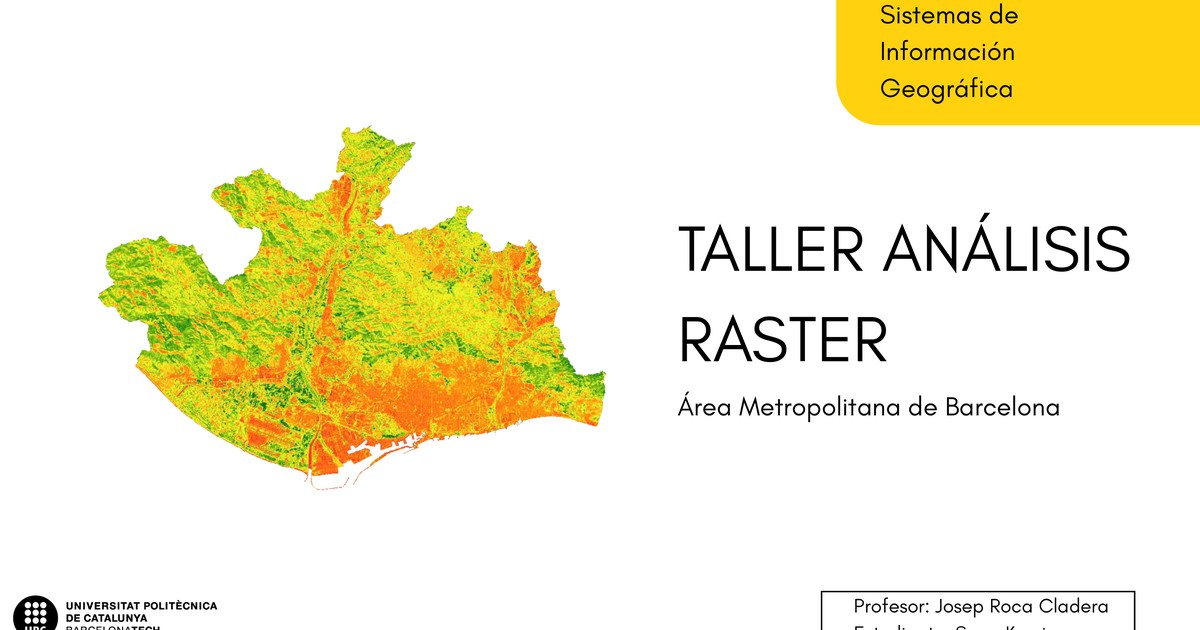
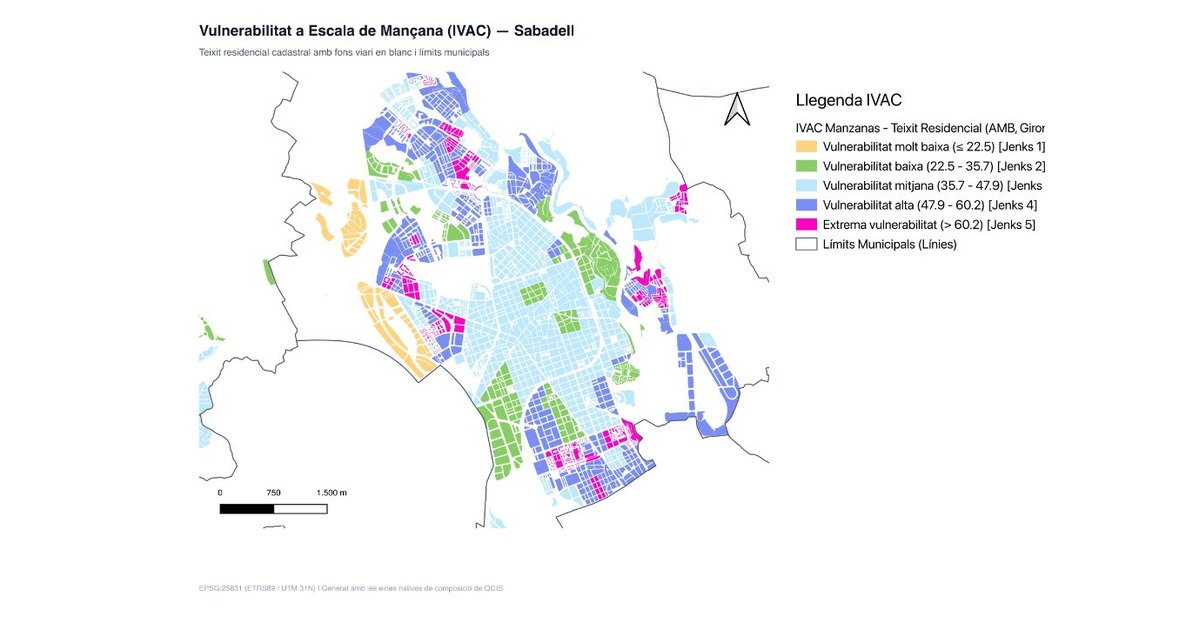
Update OGP thumbnail image to Sabadell IVAC vulnerability GIS map

diff --git a/index.html b/index.html
@@ -12,8 +12,8 @@
   <meta property="og:url" content="https://sanachavez79-k.github.io/portafolio/">
   <meta property="og:title" content="GIS & Urban Design Portfolio | Sana Kamiya">
   <meta property="og:description" content="Portafolio profesional de Sana Kamiya: Sistemas de Información Geográfica (GIS), planificación urbana, resiliencia climática y diseño territorial en el Área Metropolitana de Barcelona.">
-  <meta property="og:image" content="https://sanachavez79-k.github.io/portafolio/images/og-image.jpg">
-  <meta property="og:image:secure_url" content="https://sanachavez79-k.github.io/portafolio/images/og-image.jpg">
+  <meta property="og:image" content="https://sanachavez79-k.github.io/portafolio/images/og-image-sabadell.jpg">
+  <meta property="og:image:secure_url" content="https://sanachavez79-k.github.io/portafolio/images/og-image-sabadell.jpg">
   <meta property="og:image:type" content="image/jpeg">
   <meta property="og:image:width" content="1200">
   <meta property="og:image:height" content="630">
@@ -24,7 +24,7 @@
   <meta name="twitter:url" content="https://sanachavez79-k.github.io/portafolio/">
   <meta name="twitter:title" content="GIS & Urban Design Portfolio | Sana Kamiya">
   <meta name="twitter:description" content="Portafolio profesional de Sana Kamiya: Sistemas de Información Geográfica (GIS), planificación urbana, resiliencia climática y diseño territorial en el Área Metropolitana de Barcelona.">
-  <meta name="twitter:image" content="https://sanachavez79-k.github.io/portafolio/images/og-image.jpg">
+  <meta name="twitter:image" content="https://sanachavez79-k.github.io/portafolio/images/og-image-sabadell.jpg">
 
   <link rel="stylesheet" href="styles/style.css">
   <script src="js/lang.js" defer></script>

diff --git a/portfolio.html b/portfolio.html
@@ -12,8 +12,8 @@
   <meta property="og:url" content="https://sanachavez79-k.github.io/portafolio/portfolio.html">
   <meta property="og:title" content="Portafolio de Proyectos GIS & Diseño Urbano | Sana Kamiya">
   <meta property="og:description" content="Proyectos de análisis espacial GIS, teledetección, modelado microclimático 3D y diseño urbano desarrollados en Cataluña por Sana Kamiya.">
-  <meta property="og:image" content="https://sanachavez79-k.github.io/portafolio/images/og-image.jpg">
-  <meta property="og:image:secure_url" content="https://sanachavez79-k.github.io/portafolio/images/og-image.jpg">
+  <meta property="og:image" content="https://sanachavez79-k.github.io/portafolio/images/og-image-sabadell.jpg">
+  <meta property="og:image:secure_url" content="https://sanachavez79-k.github.io/portafolio/images/og-image-sabadell.jpg">
   <meta property="og:image:type" content="image/jpeg">
   <meta property="og:image:width" content="1200">
   <meta property="og:image:height" content="630">
@@ -22,7 +22,7 @@
   <meta name="twitter:card" content="summary_large_image">
   <meta name="twitter:title" content="Portafolio de Proyectos GIS & Diseño Urbano | Sana Kamiya">
   <meta name="twitter:description" content="Proyectos de análisis espacial GIS, teledetección, modelado microclimático 3D y diseño urbano desarrollados en Cataluña por Sana Kamiya.">
-  <meta name="twitter:image" content="https://sanachavez79-k.github.io/portafolio/images/og-image.jpg">
+  <meta name="twitter:image" content="https://sanachavez79-k.github.io/portafolio/images/og-image-sabadell.jpg">
 
   <link rel="stylesheet" href="styles/style.css">
   <script src="js/lang.js" defer></script>

diff --git a/about.html b/about.html
@@ -12,8 +12,8 @@
   <meta property="og:url" content="https://sanachavez79-k.github.io/portafolio/about.html">
   <meta property="og:title" content="Sobre Mí | Sana Kamiya - GIS & Urban Design">
   <meta property="og:description" content="Perfil profesional de Sana Kamiya: formación académica en la UPC y UB, trayectoria en urbanismo, análisis SIG y docencia intercultural.">
-  <meta property="og:image" content="https://sanachavez79-k.github.io/portafolio/images/og-image.jpg">
-  <meta property="og:image:secure_url" content="https://sanachavez79-k.github.io/portafolio/images/og-image.jpg">
+  <meta property="og:image" content="https://sanachavez79-k.github.io/portafolio/images/og-image-sabadell.jpg">
+  <meta property="og:image:secure_url" content="https://sanachavez79-k.github.io/portafolio/images/og-image-sabadell.jpg">
   <meta property="og:image:type" content="image/jpeg">
   <meta property="og:image:width" content="1200">
   <meta property="og:image:height" content="630">
@@ -22,7 +22,7 @@
   <meta name="twitter:card" content="summary_large_image">
   <meta name="twitter:title" content="Sobre Mí | Sana Kamiya - GIS & Urban Design">
   <meta name="twitter:description" content="Perfil profesional de Sana Kamiya: formación académica en la UPC y UB, trayectoria en urbanismo, análisis SIG y docencia intercultural.">
-  <meta name="twitter:image" content="https://sanachavez79-k.github.io/portafolio/images/og-image.jpg">
+  <meta name="twitter:image" content="https://sanachavez79-k.github.io/portafolio/images/og-image-sabadell.jpg">
 
   <link rel="stylesheet" href="styles/style.css">
   <script src="js/lang.js" defer></script>

diff --git a/resume.html b/resume.html
@@ -12,8 +12,8 @@
   <meta property="og:url" content="https://sanachavez79-k.github.io/portafolio/resume.html">
   <meta property="og:title" content="Currículum Vitae | Sana Kamiya">
   <meta property="og:description" content="Currículum Vitae de Sana Kamiya: formación académica en UPC, UB y Meijo University, experiencia en investigación GIS y planificación urbana.">
-  <meta property="og:image" content="https://sanachavez79-k.github.io/portafolio/images/og-image.jpg">
-  <meta property="og:image:secure_url" content="https://sanachavez79-k.github.io/portafolio/images/og-image.jpg">
+  <meta property="og:image" content="https://sanachavez79-k.github.io/portafolio/images/og-image-sabadell.jpg">
+  <meta property="og:image:secure_url" content="https://sanachavez79-k.github.io/portafolio/images/og-image-sabadell.jpg">
   <meta property="og:image:type" content="image/jpeg">
   <meta property="og:image:width" content="1200">
   <meta property="og:image:height" content="630">
@@ -22,7 +22,7 @@
   <meta name="twitter:card" content="summary_large_image">
   <meta name="twitter:title" content="Currículum Vitae | Sana Kamiya">
   <meta name="twitter:description" content="Currículum Vitae de Sana Kamiya: formación académica en UPC, UB y Meijo University, experiencia en investigación GIS y planificación urbana.">
-  <meta name="twitter:image" content="https://sanachavez79-k.github.io/portafolio/images/og-image.jpg">
+  <meta name="twitter:image" content="https://sanachavez79-k.github.io/portafolio/images/og-image-sabadell.jpg">
 
   <link rel="stylesheet" href="styles/style.css">
   <script src="js/lang.js" defer></script>
